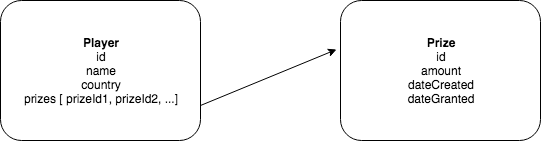
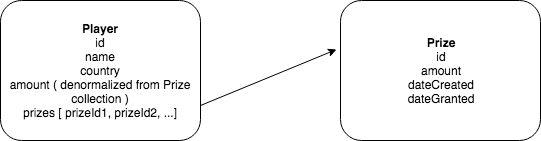
add new diagram

diff --git a/README.md b/README.md
@@ -3,7 +3,7 @@
 🃏 View and edit a list of folks who had some luck playing poker 🃏
 
 ## Overview
-The apps purpose is to display a list of poker players along with their country of origin and tournament winnings. Users may add, remove, or modify players. Please take a look at the repository's website to play with the app. 
+The app's purpose is to display a list of poker players along with their country of origin and tournament winnings. Users may add, remove, or modify players. Please take a look at the repository's website to play with the app. 
 
 ---
 ## How to run locally
@@ -44,31 +44,28 @@ Currently the data is stored in a NoSql mongo database in a single `player` coll
     "amount": 324,
 }
 ```
-For simplicity of this project I think it made sense to store it like that but the problems that could come from this is that perhaps a prize is announced before a player has won it. It that case it would make more sense to store prizes in a separate collection and reference the prizes in the player collection. 
+For simplicity of this project I think this database schema made sense. However problems could arise from this schema if one player won multiple prizes or if we want to display a separate this of all the prizes. Also perhaps a prize has been announced before a player has won it.
 
-Also, perhaps one player has won multiple prizes and we display the sum of them in the leaderboard. Having separate collections for these entities would help handle this complexity as well. In an ideal world, [here's how I would structure the database](./docs/databaseDesign.png). I would also consider having a separate collection for countries and have each person just reference their country by countryId.
-
+For these reasons I think a smarter schema would be to have a separate collection for prizes. The `player` table would reference the prizeIds from the other collection and store the denormalized sum of the player's prizes to allow for quick reads. [Here's how I would structure the improved database schema](./docs/databaseDesign.png). The only part we would have to be careful about is to remember to update the sum whenever prizeIds change or a prize's amount changes.
 
 ---
 
 ## Areas to Improve on 
 
--  have different winnings data model than part of player
--  have different read only vs. admin modes
--  have full list of countries, would need to switch to use an autocomplete UI component
--  should localize string constants for different languages
--  do better logging instead of console.logs in server code
--  figure out if app should remember sorting preferences after user refreshes
--  add rearrangement of columns or addition/removal of columns
--  figure out how to make local developement hit local DB
--  make sure concurrency works and two people aren't editing the same thing at the same time. could hook up websockets to make everything show up in real time
--  put styling into css preprocessor
--  stop using rows.find() to avoid linear time operation and use a constant time operation instead
--  if requirement is to show lots of data, the backend needs to support pagination and should return data in chunks
--  store credentials in environment variable instead of in plain text in the app
--  add integration tests
--  use redux for state management
--  use proptypes/typescript to ensure we aren't getting the wrong types of data passed around
--  put front end request into separate files so UI components dont need to worry about business logic
--  reduce duplication in server code
+- finish writing tests for all production code, especially server side code and front end code that modifies the store
+- have different read only and admin modes in the UI
+- have full list of countries, would need to switch to use an autocomplete UI component
+- should localize string constants for different languages
+- do logging the proper way instead of `console.log()`
+- figure out how to make local developement hit local DB
+- make sure concurrency works and two people aren't editing the same thing at the same time. could hook up websockets to make everything show up in real time
+- put styling into css preprocessor
+- stop using `rows.find()` in update method to avoid linear time operation and use a constant time operation instead
+- if requirement is to show lots of data, the backend needs to support pagination and should return data in chunks
+- store credentials in environment variable instead of in plain text to reduce security vulnerabilities
+- add integration tests
+- use redux for state management
+- use proptypes/typescript to ensure we aren't getting the wrong types of data passed around
+- put front end requests into separate files so UI components dont need to worry about business logic
+- reduce duplication in server code
 
